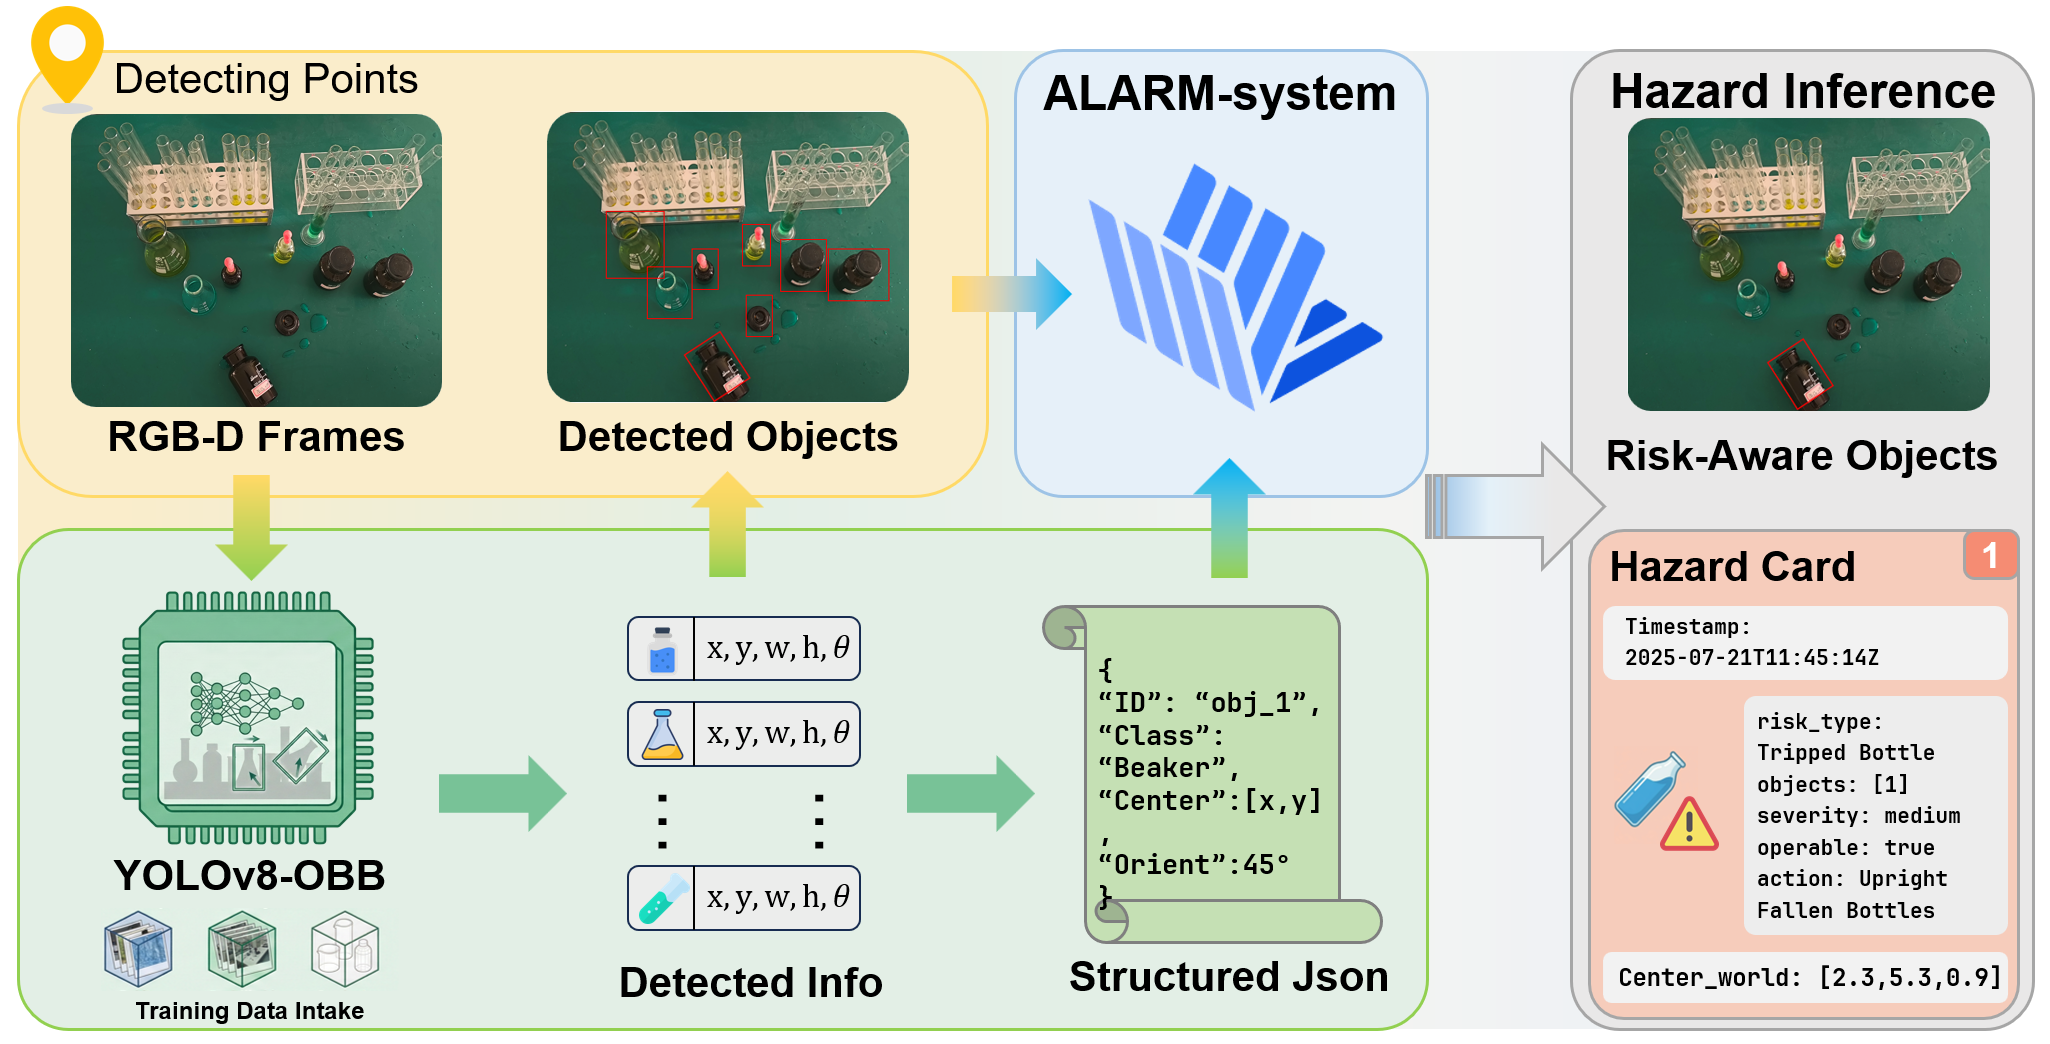
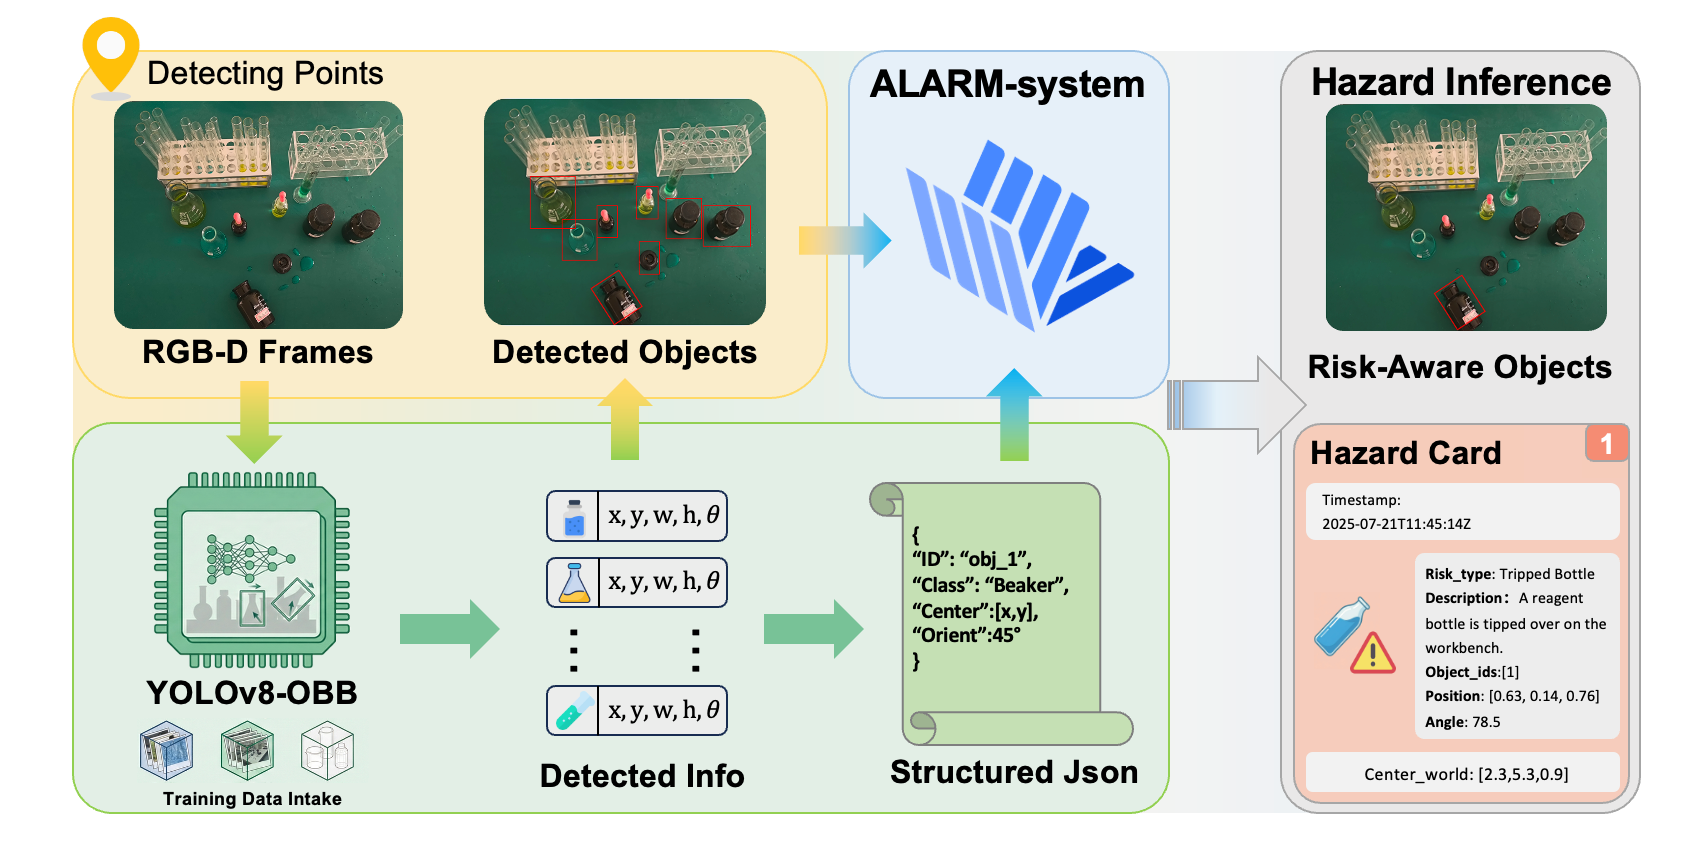
fix

diff --git a/index.html b/index.html
@@ -209,6 +209,20 @@
             <img src="static/images/Hardware.png" alt="System Hardware of ALARMbot." style="width: 100%; height: auto;"/>
           </figure>
         </div>
+
+        <h2 class="title is-2">System Pipeline</h2>
+        <div class="content fixed-width has-text-justified">
+          <p>
+          ALARMbot is an end-to-end system for autonomous safety inspection and closed-loop risk mitigation in unstructured chemical laboratories. 
+          Driven by a unified multi-modal ALARM-System, it translates natural-language commands from a web UI into structured goals, then coordinates three tightly coupled modules:
+          ALARM-Nav builds a metric-semantic map by fusing RGB-D and LiDAR and annotates rooms/zones with VLM-based semantics to plan safe, high-coverage inspection routes;
+          ALARM-Detect performs detection at inspection checkpoints and combines scene context for hazard reasoning, packaging results into structured Hazard Cards with risk type and 3D localization;
+          ALARM-Act converts these cards into safety-constrained action intents, instantiates parameterized primitives from a meta-action library (e.g., uprighting, wiping, placing), and re-inspects after execution to verify mitigation or escalate to humans when necessary.
+          </p>
+           <figure class="image">
+            <img src="static/images/pipeline.png" alt="System Hardware of ALARMbot." style="width: 100%; height: auto;"/>
+          </figure>
+        </div>
       </div>
     </div>
     </section>
